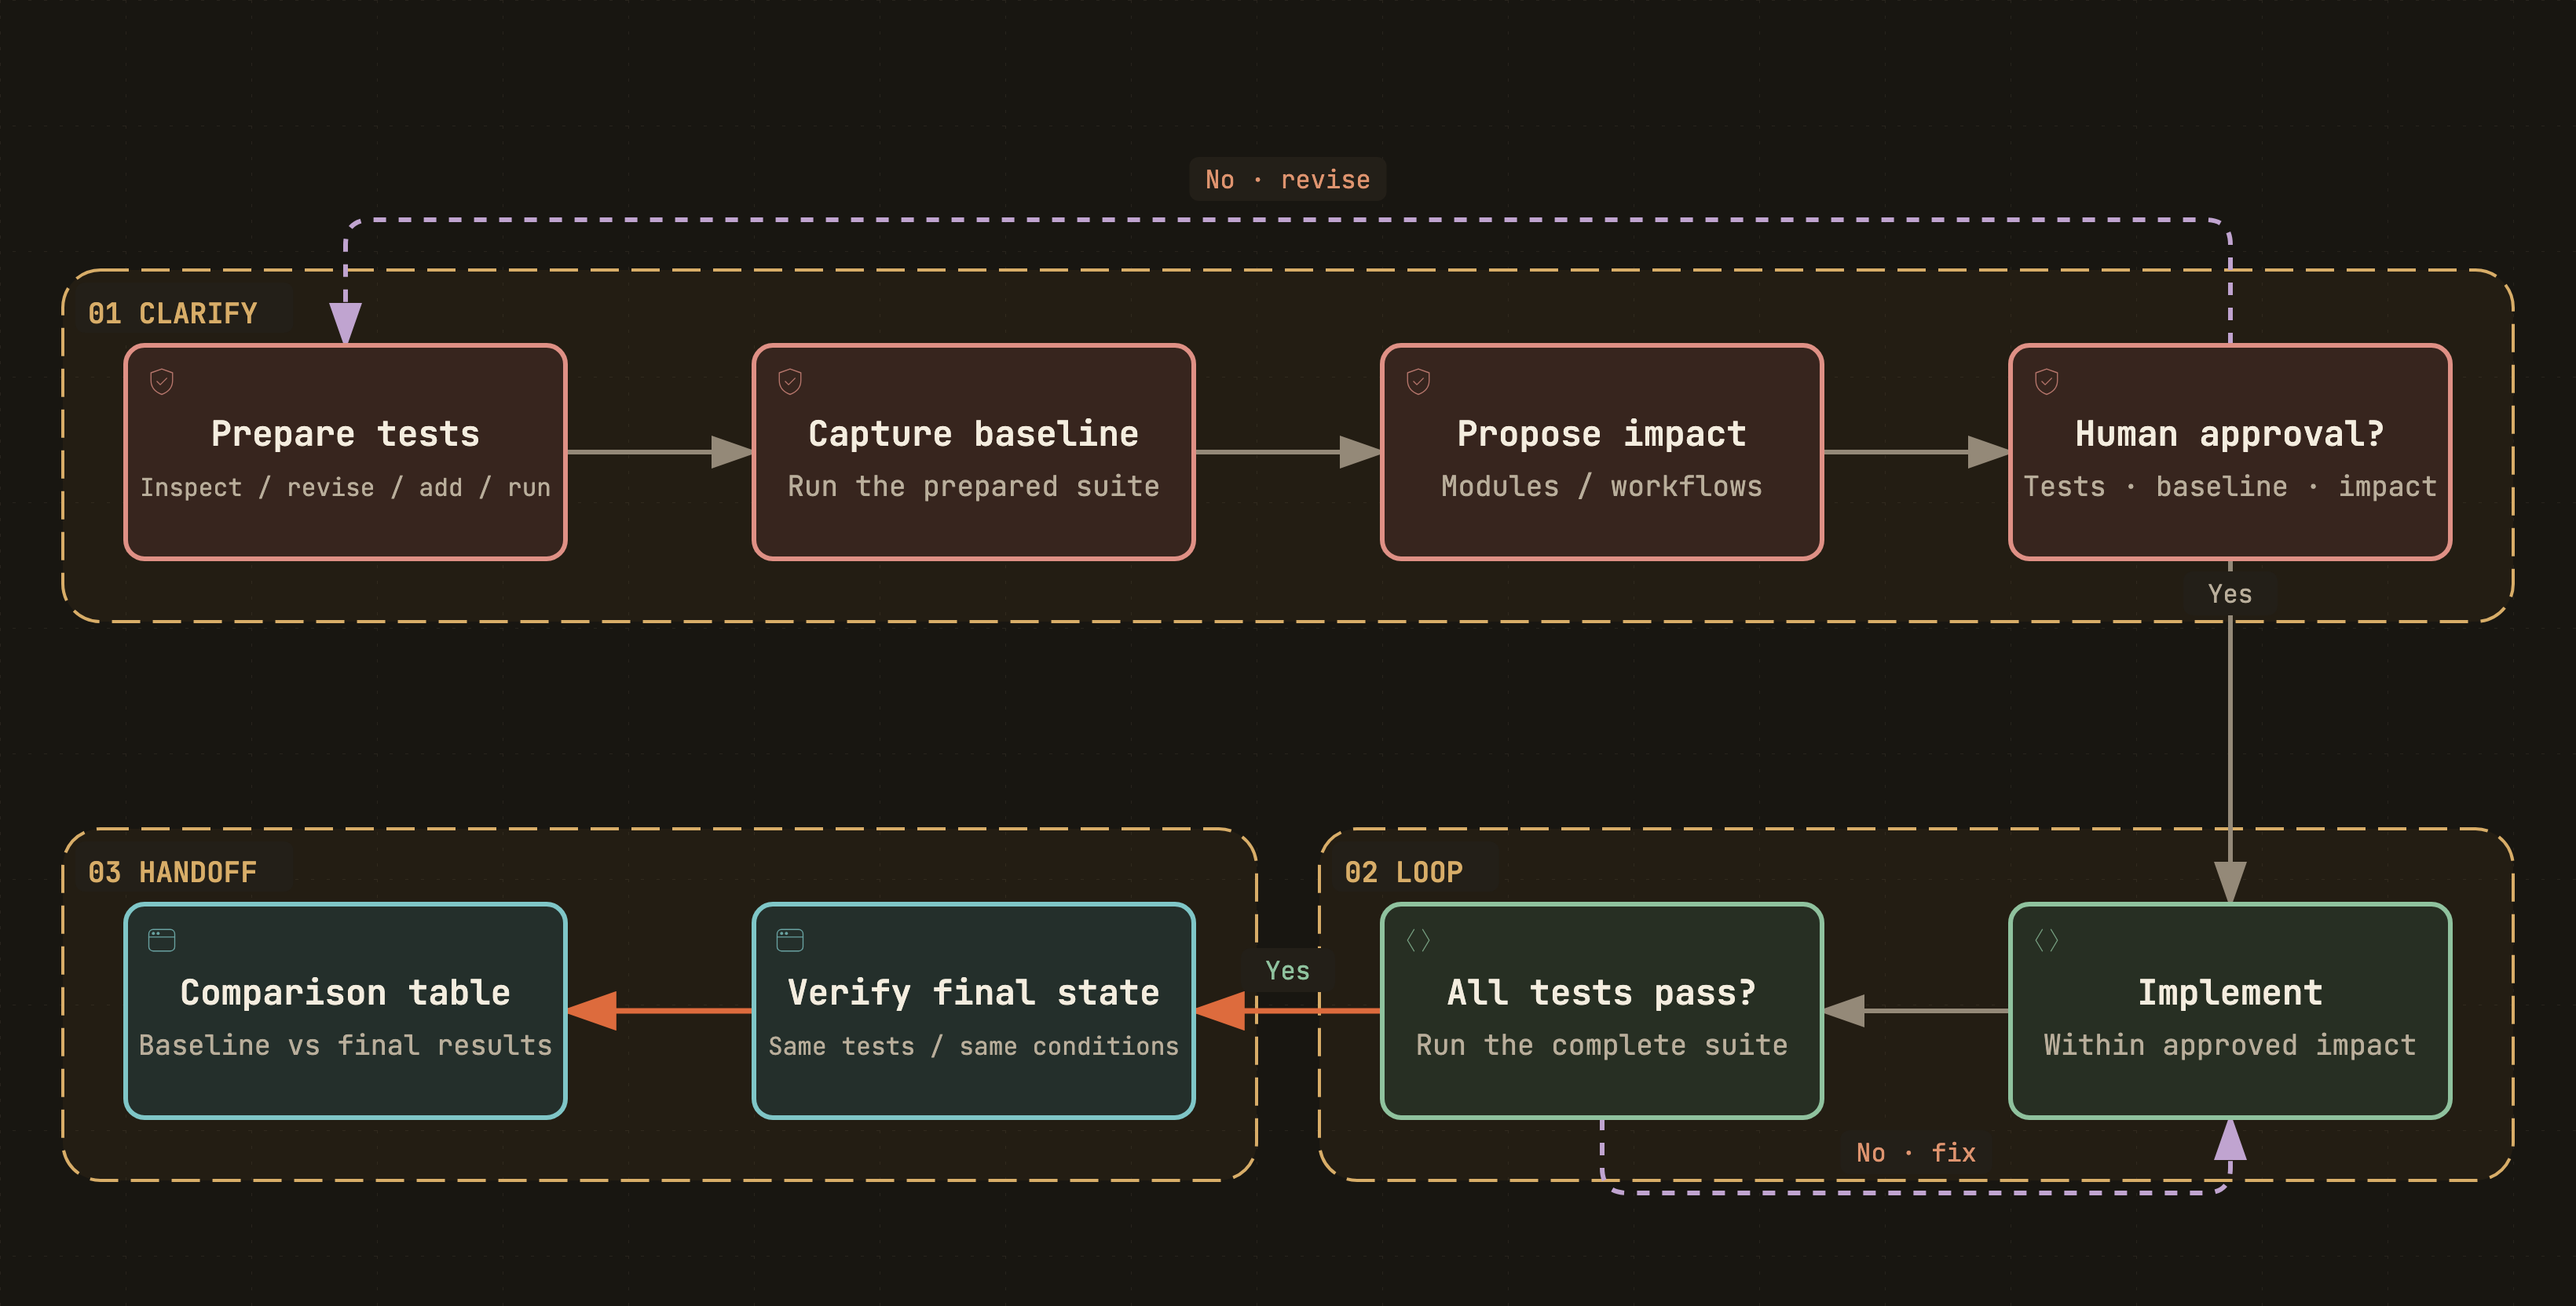
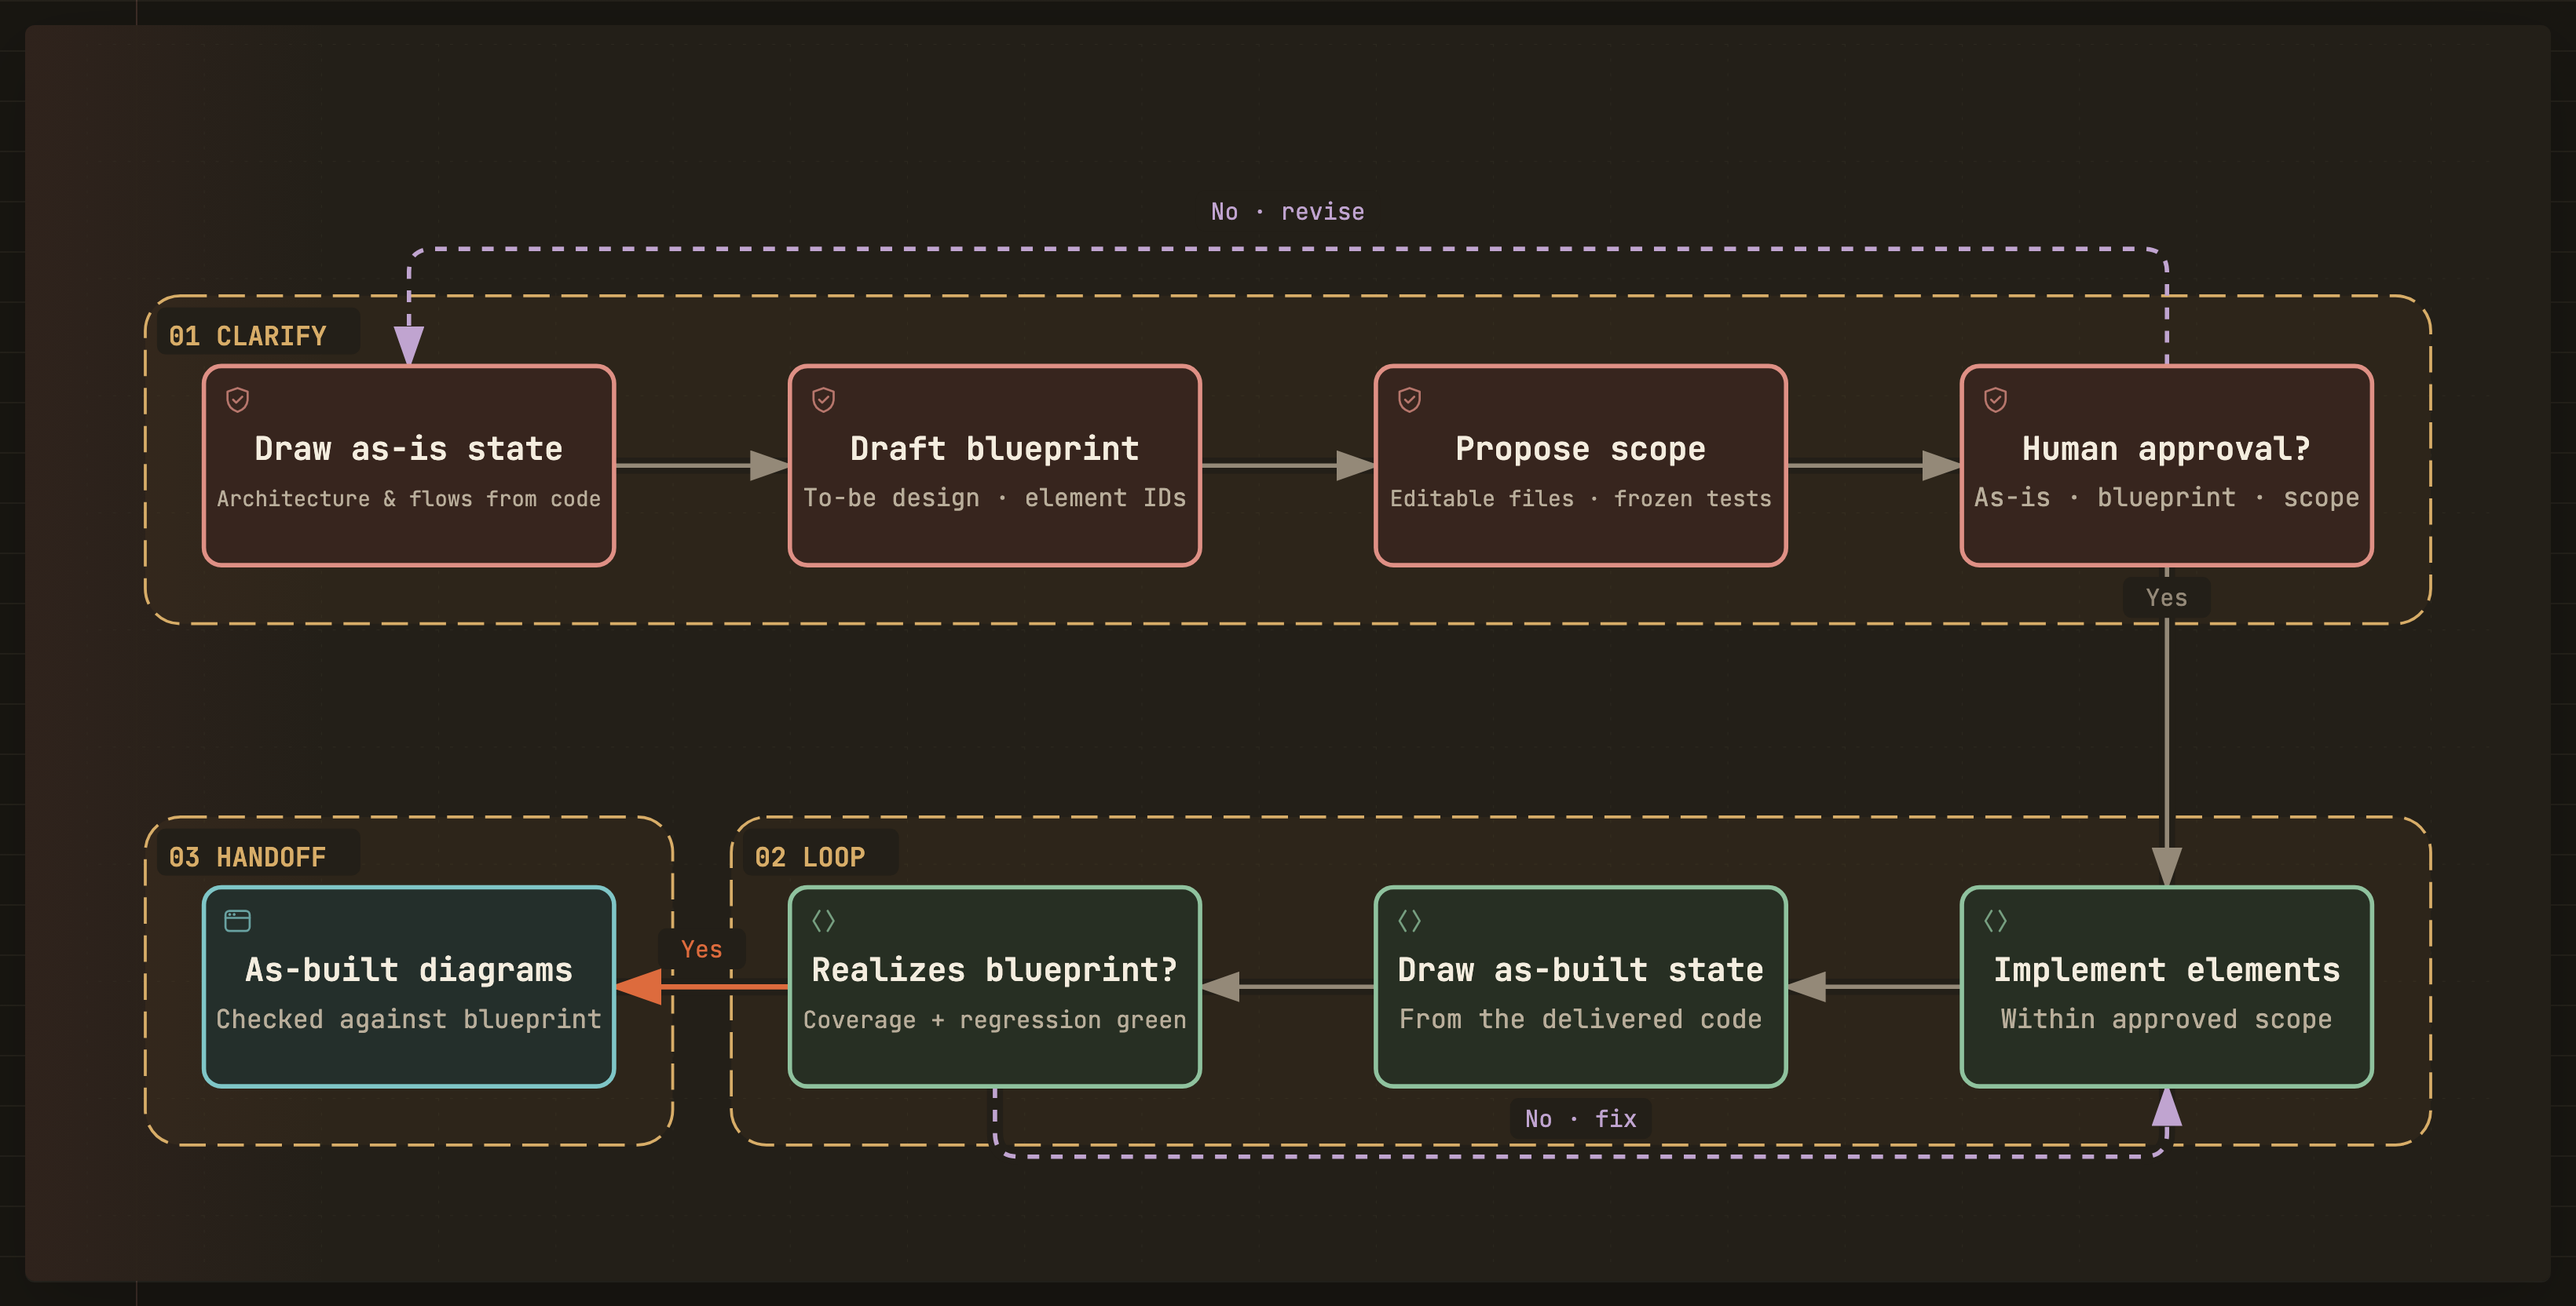
docs: redraw the development map, add the bugfix map, update contributing

diff --git a/CONTRIBUTING.md b/CONTRIBUTING.md
@@ -4,18 +4,19 @@ Improve alignment between agents and humans. Changes should reduce misunderstand
 
 ## Keep the protocol faithful
 
-Use **Clarify → Loop → Handoff** as the only top-level working stages. User input triggers the workflow.
+Use **Clarify → Loop → Handoff** as the only top-level working stages. User input triggers the workflow. Each scenario agrees on a different **target**: a blueprint for feature development, a passing test set for a bug fix, a numeric threshold for performance optimization.
 
-- **Development Clarify:** query, update/remove, add, and trial-run tests; record baseline; propose architecture/workflow impact; then one human review of the whole pass.
+- **Development Clarify:** draw as-is diagrams from the code (the baseline); draft the to-be blueprint in Mermaid with stable element IDs; propose the editable scope; then one human review of the whole pass.
+- **Bug-fix Clarify:** write the reproduction test that fails on the unchanged source; query, update/remove, add, and trial-run regression tests; record baseline; propose impact; then one human review of the whole pass.
 - **Optimization Clarify:** prepare one runnable numeric benchmark or fixed weighted score; record baseline; propose target, editable files, and wall-clock budget; then one human review of the whole pass.
-- **Loop:** in a dedicated git worktree, develop until all agreed tests pass, or optimize until target/time limit with post-checked (do-while) exits. Every round is judged by `autodev/scripts/autodev_verify.py`; keep its behavior identical to the prose in `loop.md`.
-- **Handoff:** one baseline/final comparison table for development; one chart of the measured optimization process for optimization.
+- **Loop:** in a dedicated git worktree, implement until the as-built state realizes every blueprint element and checks stay green, fix until all agreed tests pass, or optimize until target/time limit with post-checked (do-while) exits. Every round is judged by `autodev/scripts/autodev_verify.py`; keep its behavior identical to the prose in `loop.md`.
+- **Handoff:** as-built architecture/flow diagrams checked against the blueprint for development; the passing test set for a bug fix; one chart of the measured optimization process for optimization.
 
-Do not split the single human review into per-step approvals, move test preparation outside the human review cycle, equate executable tests with already-passing tests, replace the optimization chart with a table, or add convergence/attempt-count exits. Changes to test meaning or permitted scope return to Clarify.
+Do not split the single human review into per-step approvals, move target preparation outside the human review cycle, equate executable tests with already-passing tests, substitute the blueprint for as-built diagrams drawn from the delivered state, replace the optimization chart with a table, or add convergence/attempt-count exits. Changes to target meaning or permitted scope return to Clarify. An unsatisfying handoff starts a fresh autodev round, typically a bug fix — do not resume a closed loop.
 
 ## Progressive disclosure
 
-`autodev/SKILL.md` is the compact entry point. `references/clarify.md` contains shared alignment rules and routes to exactly one of `clarify-development.md` or `clarify-optimization.md`. `loop.md` and `handoff.md` load when those stages are reached.
+`autodev/SKILL.md` is the compact entry point. `references/clarify.md` contains shared alignment rules and routes to exactly one of `clarify-development.md`, `clarify-bugfix.md`, or `clarify-optimization.md`. `loop.md` and `handoff.md` load when those stages are reached.
 
 Keep shared rules with the selected scenario; do not preload the whole directory. Every reference needs a clear trigger and a reachable link inside the installed skill. Preserve framework independence and reuse the target project's tools.
 
@@ -38,7 +39,8 @@ The brand and overview are hand-authored SVG rendered with headless Chrome; the 
 |---|---|---|
 | `docs/diagrams/autodev.brand(.zh).svg` | `docs/assets/autodev-brand(.zh).png` | Title: mark on the left, AutoDev wordmark and slogan on the right, transparent background |
 | `docs/diagrams/autodev.overview(.zh).svg` | `docs/assets/autodev-overview(.zh).png` | Hero: artistic three-step composition, without scenario detail |
-| `docs/diagrams/autodev.development(.zh).json` | `docs/assets/autodev-development(.zh).png` | Feature flow inside the workflow section |
+| `docs/diagrams/autodev.development(.zh).json` | `docs/assets/autodev-development(.zh).png` | Feature (blueprint) flow inside the workflow section |
+| `docs/diagrams/autodev.bugfix(.zh).json` | `docs/assets/autodev-bugfix(.zh).png` | Bug-fix flow inside the workflow section |
 | `docs/diagrams/autodev.optimization(.zh).json` | `docs/assets/autodev-optimization(.zh).png` | Optimization flow inside the workflow section |
 
 ### Brand and overview
@@ -64,7 +66,7 @@ The process maps use Archify's `architecture` schema v1 and grid layout, not its
 
 Detail maps use a compact two-row path: Clarify reads left to right, then Loop and Handoff follow the arrows right to left. Three numbered stage regions remain distinct. Dashed return paths show review and implementation feedback; solid paths show progression and delivery. The optimization loop is post-tested (do-while): limits → optimize → measure and retain → stop check. A negative decision returns to optimization; target reached or time exhausted leads to the chart. Do not introduce a limits-to-stop-check shortcut.
 
-This renderer does not support workflow `semanticChecks`. Check directed connections explicitly: test preparation → baseline → proposed impact/limits → one human review; the review's "No" edge returns to test preparation and its "Yes" edge enters Loop; each detail map has that Clarify cycle and an execution cycle; only the required table/chart is terminal. Do not treat successful geometry validation as a semantic check.
+This renderer does not support workflow `semanticChecks`. Check directed connections explicitly: target preparation → baseline → proposed scope/limits → one human review; the review's "No" edge returns to preparation and its "Yes" edge enters Loop; each detail map has that Clarify cycle and an execution cycle; only the required artifact is terminal. Do not treat successful geometry validation as a semantic check.
 
 Keep the PNGs opaque and dark regardless of the README viewer's color scheme. Use Archify's Editorial preset and canonical PNG export, not a screenshot containing viewer controls or manually recolored output. These are workflow illustrations, not test-result charts; do not reintroduce the removed result screenshot.
 
@@ -75,7 +77,7 @@ Use the installed skill root containing `SKILL.md` and `bin/archify.mjs`. The ch
 ```bash
 ARCHIFY_SKILL=/path/to/archify/archify
 OUT=$(mktemp -d)
-for name in development optimization; do
+for name in development bugfix optimization; do
   for locale in '' '.zh'; do
     source="docs/diagrams/autodev.${name}${locale}.json"
     output="$OUT/autodev-${name}${locale}.html"
@@ -102,7 +104,7 @@ Run its tests before committing changes to it or to the Loop rules:
 python3 -m unittest discover -s tests
 ```
 
-The cases in `tests/test_verify.py` are the acceptance criteria from the issue tracker: a frozen-file edit, an out-of-scope file, a regression, a sub-`δ` improvement, a crash, a dirty worktree, a spent budget, and the development scenario must each get the documented verdict, and rollback must leave no residue.
+The cases in `tests/test_verify.py` are the acceptance criteria from the issue tracker: a frozen-file edit, an out-of-scope file, a regression, a sub-`δ` improvement, a crash, a dirty worktree, a spent budget, the bug-fix scenario, and the blueprint-driven development scenario (element coverage gating `status`) must each get the documented verdict, and rollback must leave no residue.
 
 ## Verify changes
 
@@ -110,11 +112,11 @@ The legacy evaluation suite remains retired; `tests/` covers only the judge scri
 
 Before committing:
 
-- Walk through both scenario paths against the skill, READMEs, and diagram sources.
+- Walk through all three scenario paths against the skill, READMEs, and diagram sources.
 - Check local links, anchors, frontmatter, and code fences; verify the deleted reference names are no longer used.
 - Confirm the judge script's commands named in `loop.md`, `clarify-*.md`, and `handoff.md` exist with those flags.
-- Check that baseline precedes the scope proposal and that the single human review closes the whole Clarify pass in both scenarios.
-- Verify the feature table and optimization process chart are mandatory everywhere, not optional presentation choices.
+- Check that baseline precedes the scope proposal and that the single human review closes the whole Clarify pass in all three scenarios.
+- Verify the as-built diagrams, the passing test set, and the optimization process chart are mandatory everywhere, not optional presentation choices.
 - Confirm bilingual diagram topology and geometry match; detail PNGs are dark canonical exports and the brand PNG keeps a transparent background.
 - Run Archify validation/browser checks for the detail diagrams and review every actual image, including the brand and overview; retain the evidence.
 - Run `git diff --check` and `python3 -m unittest discover -s tests`; confirm `git ls-files -- evals` is empty.
